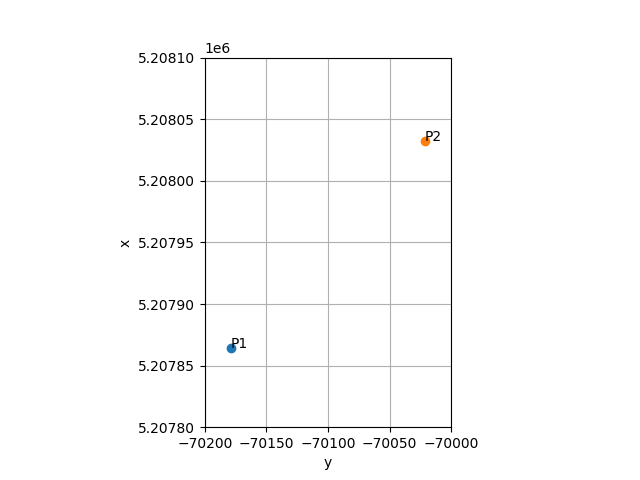
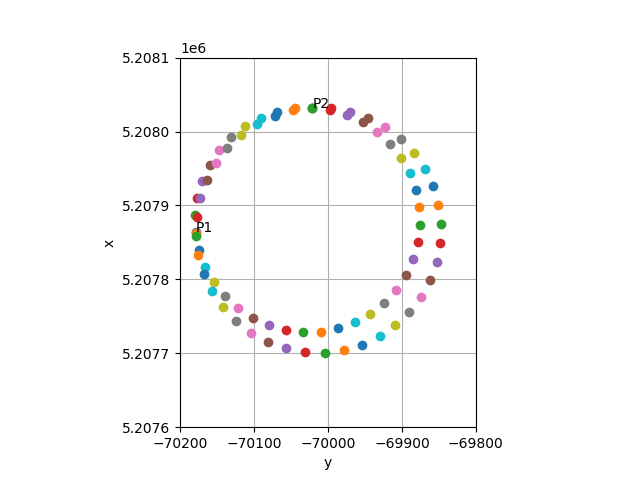
...

diff --git a/Geomathematik1/lib2d/Algorithms.py b/Geomathematik1/lib2d/Algorithms.py
@@ -5,7 +5,11 @@ from lib.Angle import Angle, rad, gon
 
 
 # Aus einem Punkt, einer Richtung und einer Länge, ergibt den nächsten Punkt
-def HA1(P: Point, v: Angle, s: float) -> Point:
+def HA1(
+    P: Point,
+    s: float,
+    v: Angle,
+) -> Point:
     return Point(
         P.x + s * v.cos(),
         P.y + s * v.sin(),
@@ -13,14 +17,21 @@ def HA1(P: Point, v: Angle, s: float) -> Point:
 
 
 # Aus zwei Punkten, ergibt die Länge und die Richtung des Verbindungsvektors
-def HA2(A: Point, B: Point) -> Tuple[float, Angle]:
+def HA2(
+    A: Point,
+    B: Point,
+) -> Tuple[float, Angle]:
     dist = A.distance_to(B)
     angle = A.oriented_angle_to(B)
     return dist, angle
 
 
 # Aus 3 Längen eines Dreiecks, ergibt die 3 (gegenüberliegenden) Winkel dieses Dreiecks
-def Halbwinkelsatz(a: float, b: float, c: float) -> Tuple[Angle, Angle, Angle]:
+def Halbwinkelsatz(
+    a: float,
+    b: float,
+    c: float,
+) -> Tuple[Angle, Angle, Angle]:
     s = (a + b + c) / 2
     alpha = rad(2 * math.atan(math.sqrt((s - b) * (s - c) / (s * (s - a)))))
     beta = rad(2 * math.atan(math.sqrt((s - c) * (s - a) / (s * (s - b)))))
@@ -31,32 +42,64 @@ def Halbwinkelsatz(a: float, b: float, c: float) -> Tuple[Angle, Angle, Angle]:
 # Aus zwei Punkten (A, B) und den Längen ausgehend von diesen Punkten,
 # ergibt den Schnittpunkt (C) zweier Kreise mit diesen Radien.
 # Achtung: ABC ist im Uhrzeigersinn. Tauscht man A und B, gäbe es noch eine andere Lösung.
-def Bogenschnitt(A: Point, B: Point, sAC: float, sBC: float) -> Point:
+def Bogenschnitt(
+    A: Point,
+    B: Point,
+    sAC: float,
+    sBC: float,
+) -> Point:
     sAB, vAB = HA2(A, B)
     alpha, beta, gamma = Halbwinkelsatz(sBC, sAC, sAB)
 
     vAC = vAB + alpha
-    C = HA1(A, vAC, sAC)
+    C = HA1(A, sAC, vAC)
 
     # Alternativ:
     # vBC = vAB + (gon(200) - beta)
-    # C = HA1(B, vBC, sBC)
+    # C = HA1(B, sBC, vBC)
 
     return C
 
 
 # Aus zwei Punkten und den orientierten Richtungen ausgehend von diesen Punkten, ergibt
 # den Schnittpunkt dieser Geraden.
-def Vorwärtsschnitt_Richtung(A: Point, B: Point, vAC: Angle, vBC: Angle) -> Point:
+def Vorwärtsschnitt_Richtung(
+    A: Point,
+    B: Point,
+    vAC: Angle,
+    vBC: Angle,
+) -> Point:
     sAB, vAB = HA2(A, B)
 
     sAC = sAB * (vBC - vAB).sin() / (vBC - vAC).sin()
-    C = HA1(A, vAC, sAC)
+    C = HA1(A, sAC, vAC)
 
     # Alternative:
     # sBC = sAB * (vAC - vAB).sin() / (vBC - vAC).sin()
-    # C = HA1(B, vBC, sBC)
+    # C = HA1(B, sBC, vBC)
 
+    return C
+
+
+# Aus zwei Punkten und den unorientierten Richtungen ausgehend von diesen Punkten, ergibt
+# den Schnittpunkt dieser Geraden.
+def Vorwaertsschnitt_Winkel(
+    A: Point,
+    B: Point,
+    alpha: Angle,
+    beta: Angle,
+) -> Point:
+
+    sAB, vAB = HA2(A, B)
+    sAC = sAB * beta.sin() / (alpha + beta).sin()
+    sBC = sAB * alpha.sin() / (alpha + beta).sin()
+
+    vAC = vAB + alpha
+    C = HA1(A, sAC, vAC)
+
+    # Alternative:
+    # vBC = vAB + (gon(200) - beta)
+    # C = HA1(B, sBC, vBC)
     return C
 
 

diff --git a/Geomathematik1/Beispiel 18.py b/Geomathematik1/Beispiel 18.py
@@ -3,24 +3,63 @@ from lib2d.Point import Point
 from lib2d.Line import Line
 from lib.Angle import Angle, gon
 from lib2d.Plot import Plot
-from lib2d.Algorithms import HA1, HA2
+from lib2d.Algorithms import HA1, HA2, Vorwaertsschnitt_Winkel
 
 P1 = Point(5207864.64, -70178.81)
 P2 = Point(5208032.30, -70021.36)
 
 # unorientierte Richtungen
-N1P1 = gon(0)
-N1P2 = gon(54.593)
-N1N2 = gon(106.778)
+wN1_P1 = gon(0)
+wN1_P2 = gon(54.593)
+wN1_N2 = gon(106.778)
 
-N2N1 = gon(0)
-N2P1 = gon(22.426)
-N2P2 = gon(71.204)
+wN2_N1 = gon(0)
+wN2_P1 = gon(22.426)
+wN2_P2 = gon(71.204)
+
+w1 = wN1_P2 - wN1_P1
+w2 = wN1_N2 - wN1_P2
+w3 = wN2_P1 - wN2_N1
+w4 = wN2_P2 - wN2_P1
+w5 = gon(200) - w2 - w3
+w6 = gon(200) - w5
+w7 = gon(200) - w4 - w6
+w8 = gon(200) - w1 - w6
+
+# sP1_P2 = P1.distance_to(P2)
+
+# """
+#   sP1_P2 / w4.sin() = sP2_N2 / w10.sin()
+#   sP1_P2 / w1.sin() = sP1_N1 / w9.sin()
+#   w9 + w10 = gon(200) - w5
+# """
 
 
 # Finde N1, N2
 
-p = Plot(Point(5207800, -70200), Point(5208100, -70000))
+p = Plot(Point(5207600, -70200), Point(5208100, -69800))
 p.add_point(P1, "P1")
 p.add_point(P2, "P2")
+
+
+for g in range(0, 200, 5):
+    alpha = gon(g)
+    gamma = w1
+    beta = gon(200) - alpha - gamma
+    if beta.rad < 0:
+        continue
+
+    N = Vorwaertsschnitt_Winkel(P1, P2, alpha, beta)
+    p.add_point(N)
+
+for g in range(0, 200, 5):
+    alpha = gon(g)
+    gamma = w4
+    beta = gon(200) - alpha - gamma
+    if beta.rad < 0:
+        continue
+
+    N = Vorwaertsschnitt_Winkel(P1, P2, alpha, beta)
+    p.add_point(N)
+
 p.save("Geomathematik1/Beispiel 18.png")

diff --git a/Physik M/lib/forces.py b/Physik M/lib/forces.py
@@ -1,6 +1,7 @@
 # Returns the coloumb force being applied to an electron at
 # pos1 by an electron at pos2
-from vector import Vec3
+import math
+from lib.vector import Vec3
 
 electricConstant = 8.854e-12  # eps0
 electronCharge = -1.602176487e-19
@@ -8,10 +9,23 @@ electronMass = 9.10938215e-31
 gravitationalConstant = 6.674e-11  # G
 
 
-def coulomb(pos1: Vec3, pos2: Vec3):
+# Returns the coloumb force of the particle at pos2!
+def coulomb(
+    pos1: Vec3,
+    pos2: Vec3,
+    charge1: float = electronCharge,
+    charge2: float = electronCharge,
+):
     r21 = -pos2 + pos1
-    force = electronCharge**2 / (4 * math.pi * electricConstant * r21.length() ** 2)
-    return r21.normalized() * force
+    distance = r21.normalize()
+
+    # constant factor for electric fields
+    scaleFactor = 1 / (4 * math.pi * electricConstant)
+
+    # variable factors defined by charge and position of the two particles
+    oomphFactor = charge1 * charge2 / (distance**2)
+
+    return r21 * (oomphFactor * scaleFactor)
 
 
 # Returns the force being applied to an electron at

diff --git a/Geomathematik1/atan.py b/Geomathematik1/atan.py
@@ -1,0 +1,34 @@
+import math
+
+x = 2
+y = 3
+
+
+# Q1: x > 0 and y > 0
+w1a = math.atan(y / x)
+w1b = math.atan2(y, x)
+
+# Q2: x < 0 and y > 0
+w2a = math.pi + math.atan(y / -x)
+w2b = math.atan2(y, -x)
+
+# Q3: x < 0 and y < 0
+w3a = math.pi + math.atan(-y / -x)
+w3b = math.atan2(-y, -x)
+
+# Q4: x > 0 and y < 0
+w4a = math.atan(-y / x)
+w4b = math.atan2(-y, x)
+
+
+def clean(w):
+    deg = math.degrees(w)
+    if deg < 0:
+        deg += 360
+    return f"{deg:.1f}°"
+
+
+print(clean(w1a), clean(w1b))
+print(clean(w2a), clean(w2b))
+print(clean(w3a), clean(w3b))
+print(clean(w4a), clean(w4b))

diff --git a/Physik M/7.2  Elektrisches Feld zweier Punktladungen.py b/Physik M/7.2  Elektrisches Feld zweier Punktladungen.py
@@ -1,0 +1,29 @@
+from lib.vector import Vec3
+from lib.forces import coulomb, electronCharge
+
+
+test_pos = Vec3(80, 83, -57) * 1e-6
+test_charge = 1
+
+q1_pos = Vec3(3, -4, -4) * 1e-6
+q1_charge = 9e-12
+
+q2_pos = Vec3(4, 2, -5) * 1e-6
+q2_charge = -9e-11
+
+f1 = coulomb(
+    pos1=q1_pos,
+    charge1=q1_charge,
+    pos2=test_pos,
+    charge2=test_charge,
+)
+
+f2 = coulomb(
+    pos1=q2_pos,
+    charge1=q2_charge,
+    pos2=test_pos,
+    charge2=test_charge,
+)
+
+field = -(f1 + f2) * (1 / test_charge)
+print(field)

diff --git a/Physik M/lib/vector.py b/Physik M/lib/vector.py
@@ -55,6 +55,9 @@ class Vec2:
             self.y * scalar,
         )
 
+    def __div__(self, scalar: float) -> Vec2:
+        return self * (1 / scalar)
+
     def __neg__(self) -> Vec2:
         return self * -1
 
@@ -121,6 +124,9 @@ class Vec3:
             self.y * scalar,
             self.z * scalar,
         )
+
+    def __div__(self, scalar: float) -> Vec3:
+        return self * (1 / scalar)
 
     def __neg__(self) -> Vec3:
         return self * -1

diff --git a/Geomathematik1/lib2d/Plot.py b/Geomathematik1/lib2d/Plot.py
@@ -33,8 +33,8 @@ class Plot:
     def add_line(self, line: Line):
         P0 = line.offset
 
-        P1 = HA1(P0, line.angle, 1000)
-        P2 = HA1(P0, line.angle, -1000)
+        P1 = HA1(P0, 1000, line.angle)
+        P2 = HA1(P0, -1000, line.angle)
 
         x = [P1.x, P2.x]
         y = [P1.y, P2.y]

diff --git a/Geomathematik1/Beispiel 6.py b/Geomathematik1/Beispiel 6.py
@@ -34,8 +34,8 @@ sBM = sBD / 2
 vBD = vBA
 vBM = vBA
 
-D = HA1(B, vBD, sBD)
-M = HA1(B, vBM, sBM)
+D = HA1(B, sBD, vBD)
+M = HA1(B, sBM, vBM)
 
 p = Plot(Point(-200, -200), Point(200, 200))
 p.add_point(A, "A")
